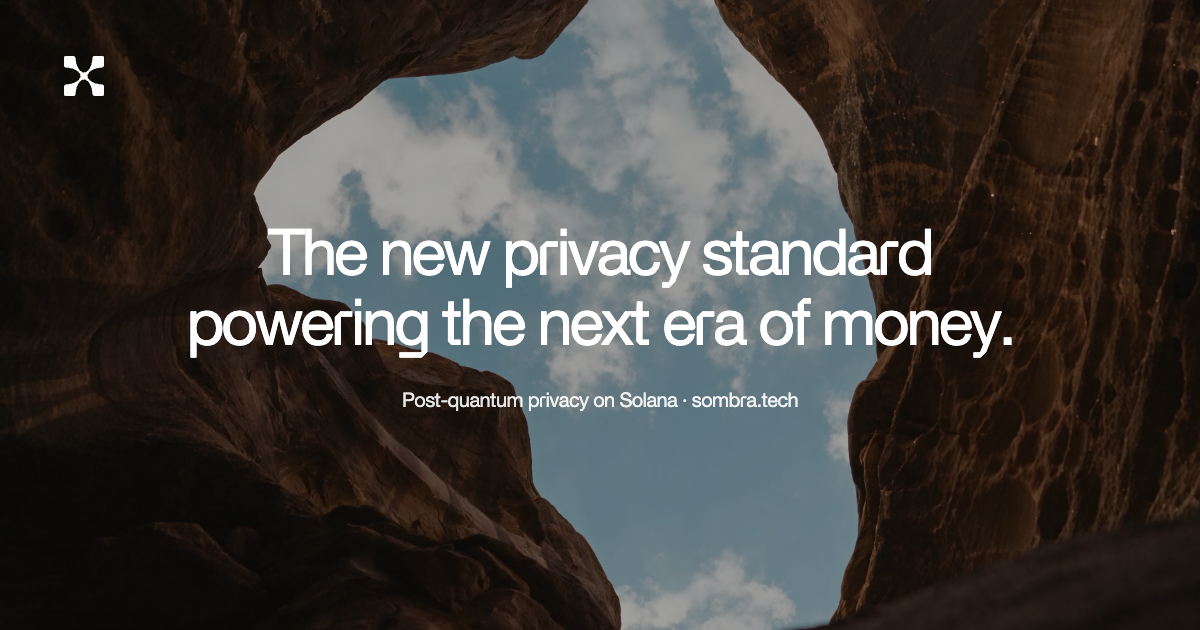
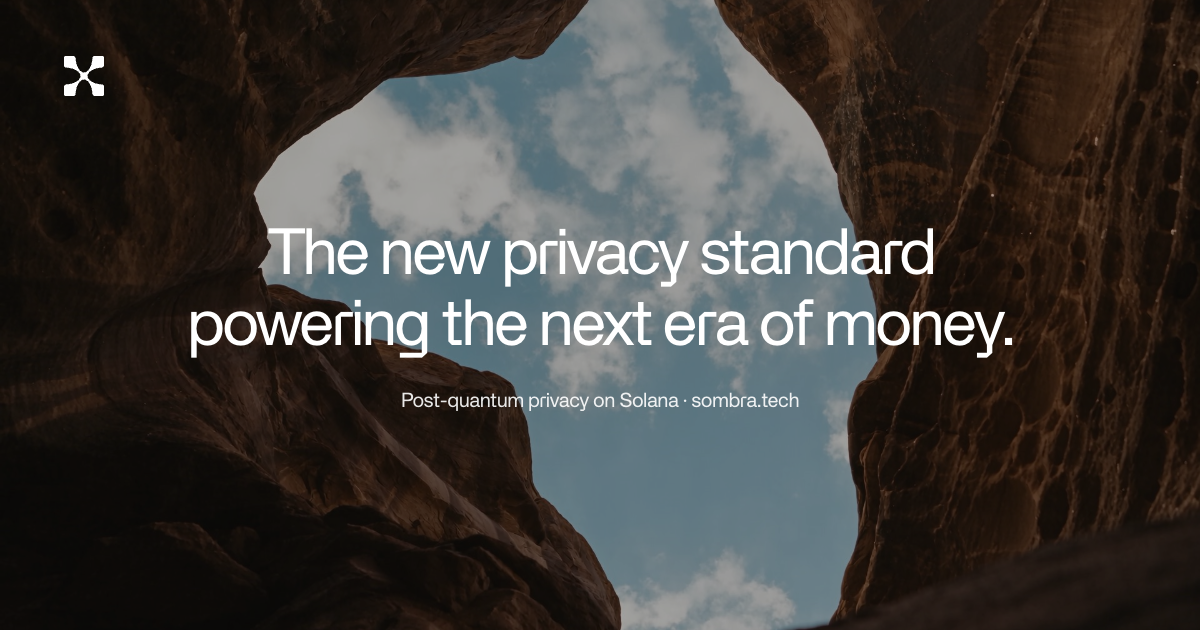
Font: APK Galeria Regular (the Figma cut) with grayscale smoothing, regenerate og.png

diff --git a/app/globals.css b/app/globals.css
@@ -28,6 +28,9 @@ body {
   font-synthesis: none;
   line-height: 1.45;
   overflow-x: hidden;
+  /* Grayscale antialiasing like Figma; macOS browsers otherwise render the type heavier. */
+  -webkit-font-smoothing: antialiased;
+  -moz-osx-font-smoothing: grayscale;
 }
 a { color: inherit; text-decoration: none; }
 button { font: inherit; color: inherit; background: none; border: none; cursor: pointer; }

diff --git a/app/layout.tsx b/app/layout.tsx
@@ -5,7 +5,7 @@ import "./globals.css";
 
 // APK Galeria (Autograph Type Design) — licensed by Sombra / Bonsol Labs.
 const galeria = localFont({
-  src: "./fonts/APKGaleria.woff2",
+  src: "./fonts/APKGaleria-Regular.woff2",
   weight: "400",
   style: "normal",
   variable: "--font-galeria",
